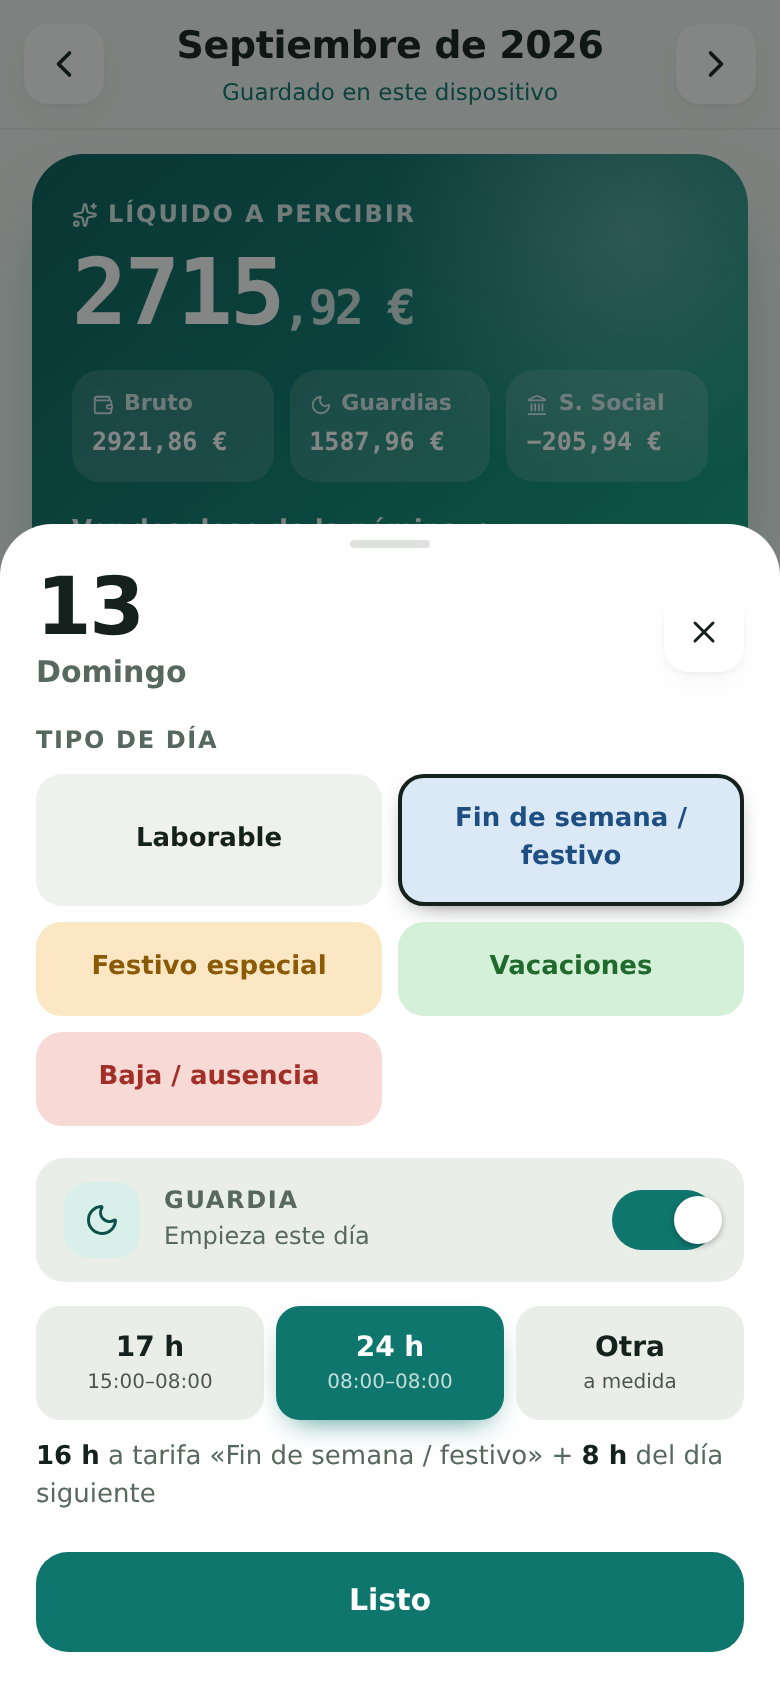
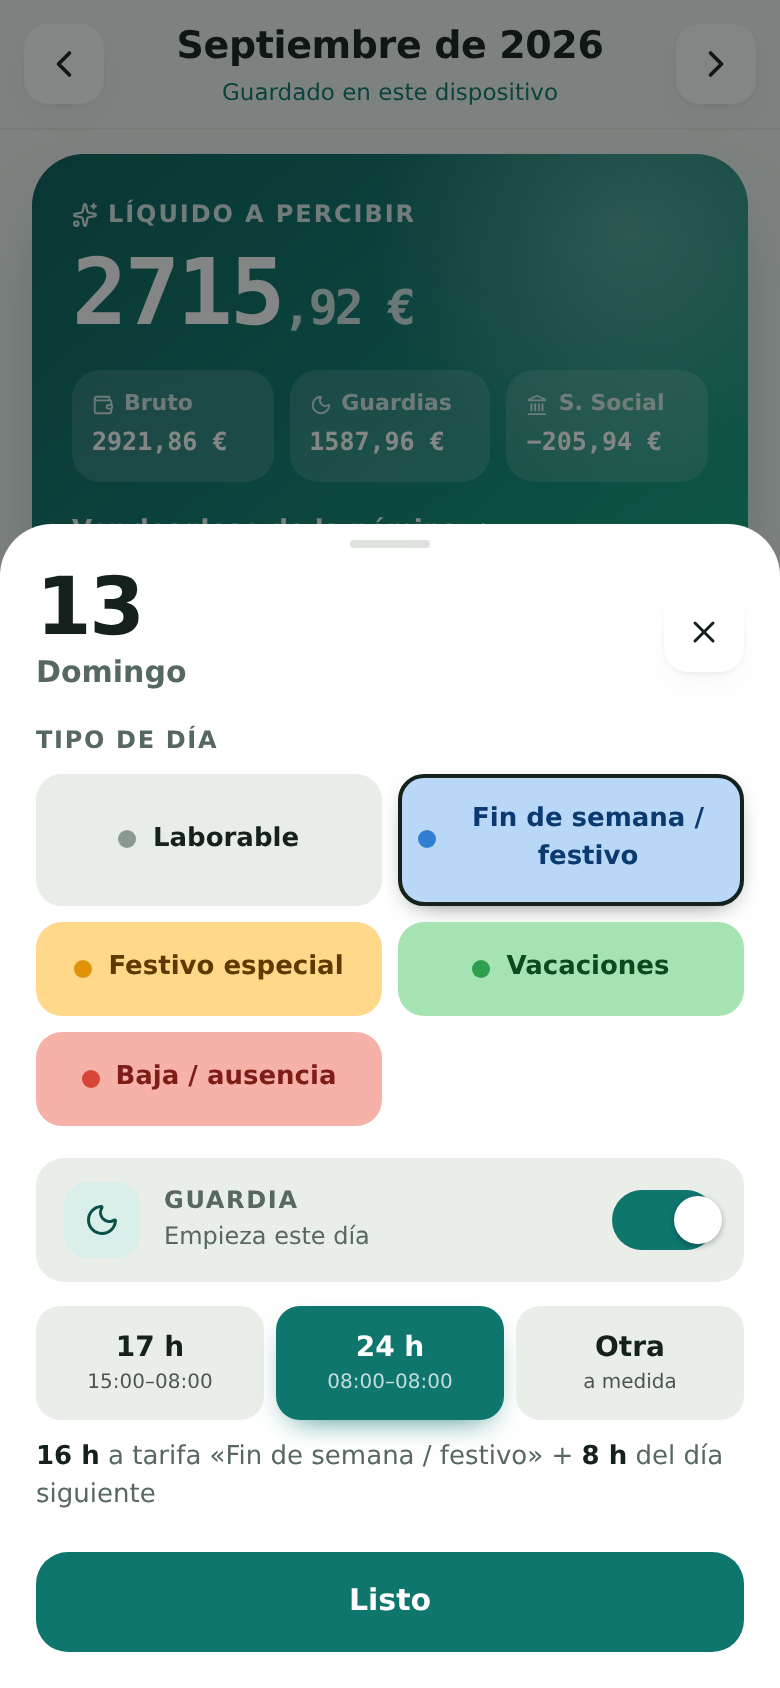
Mejora el contraste de los tipos de día en modo claro y oscuro
Fondos más saturados y separados entre sí, texto con contraste >= 5,7:1 y un
acento por tipo (barra en el calendario, punto en el selector) para no
depender solo del tono del fondo. Capturas del README actualizadas.

Changed region(s): [[0.0308, 0.4621, 0.9538, 0.6777]]

diff --git a/src/styles.css b/src/styles.css
@@ -11,15 +11,20 @@
   --brand-ink: #ffffff;
   --brand-soft: #d9f0ea;
   --brand-soft-ink: #0b4f49;
-  --lab: #eef1ed;
-  --sdf: #dbe9f7;
-  --sdf-ink: #1e4f82;
-  --esp: #fbe7c3;
-  --esp-ink: #8a5a06;
-  --vac: #d5f0d8;
-  --vac-ink: #216a2d;
-  --baja: #f7d9d5;
-  --baja-ink: #a02f27;
+  --lab: #e9ede8;
+  --sdf: #b9d8f7;
+  --sdf-ink: #0a3a70;
+  --esp: #ffd88a;
+  --esp-ink: #5e3a00;
+  --vac: #a6e3b2;
+  --vac-ink: #0b4a1e;
+  --baja: #f6b1a9;
+  --baja-ink: #7d1d16;
+  --lab-acc: #8a9a92;
+  --sdf-acc: #2f7fd1;
+  --esp-acc: #e0930a;
+  --vac-acc: #2e9e4f;
+  --baja-acc: #d64536;
   --warn-bg: #fcefd2;
   --warn-ink: #8a5a06;
   --danger: #c0392b;
@@ -41,15 +46,20 @@
     --brand-ink: #06231d;
     --brand-soft: #16342d;
     --brand-soft-ink: #a5e8d9;
-    --lab: #1a2420;
-    --sdf: #1a3149;
-    --sdf-ink: #9ccbf5;
-    --esp: #40300f;
-    --esp-ink: #f0c26a;
-    --vac: #17371c;
-    --vac-ink: #8fd99a;
-    --baja: #42201d;
-    --baja-ink: #f2a39c;
+    --lab: #2a372f;
+    --sdf: #1f4d80;
+    --sdf-ink: #dcedff;
+    --esp: #6e4c08;
+    --esp-ink: #ffe6ad;
+    --vac: #1d6a33;
+    --vac-ink: #d9f7df;
+    --baja: #7d2b25;
+    --baja-ink: #ffdcd7;
+    --lab-acc: #6f8078;
+    --sdf-acc: #5aa9f5;
+    --esp-acc: #f0b23a;
+    --vac-acc: #4fcf77;
+    --baja-acc: #f2766b;
     --warn-bg: #3a2d10;
     --warn-ink: #f0c26a;
     --danger: #ef8378;
@@ -1414,4 +1424,57 @@ summary:focus-visible {
 }
 .link-danger {
   margin-top: 10px;
+}
+
+/* --- distinción de tipos de día: tono de fondo + acento (no depende solo del color de fondo) --- */
+.cell.t-lab,
+.type-chip.t-lab,
+.lg.t-lab {
+  --acc: var(--lab-acc);
+}
+.cell.t-sdf,
+.type-chip.t-sdf,
+.lg.t-sdf {
+  --acc: var(--sdf-acc);
+}
+.cell.t-esp,
+.type-chip.t-esp,
+.lg.t-esp {
+  --acc: var(--esp-acc);
+}
+.cell.t-vac,
+.type-chip.t-vac,
+.lg.t-vac {
+  --acc: var(--vac-acc);
+}
+.cell.t-baja,
+.type-chip.t-baja,
+.lg.t-baja {
+  --acc: var(--baja-acc);
+}
+
+.cell::before {
+  content: "";
+  position: absolute;
+  top: 0;
+  left: 22%;
+  right: 22%;
+  height: 3px;
+  border-radius: 0 0 3px 3px;
+  background: var(--acc);
+}
+.cell.t-lab::before {
+  opacity: 0.45;
+}
+.lg {
+  border: 2px solid var(--acc);
+}
+.type-chip::before {
+  content: "";
+  width: 9px;
+  height: 9px;
+  border-radius: 50%;
+  background: var(--acc);
+  margin-right: 8px;
+  flex-shrink: 0;
 }
